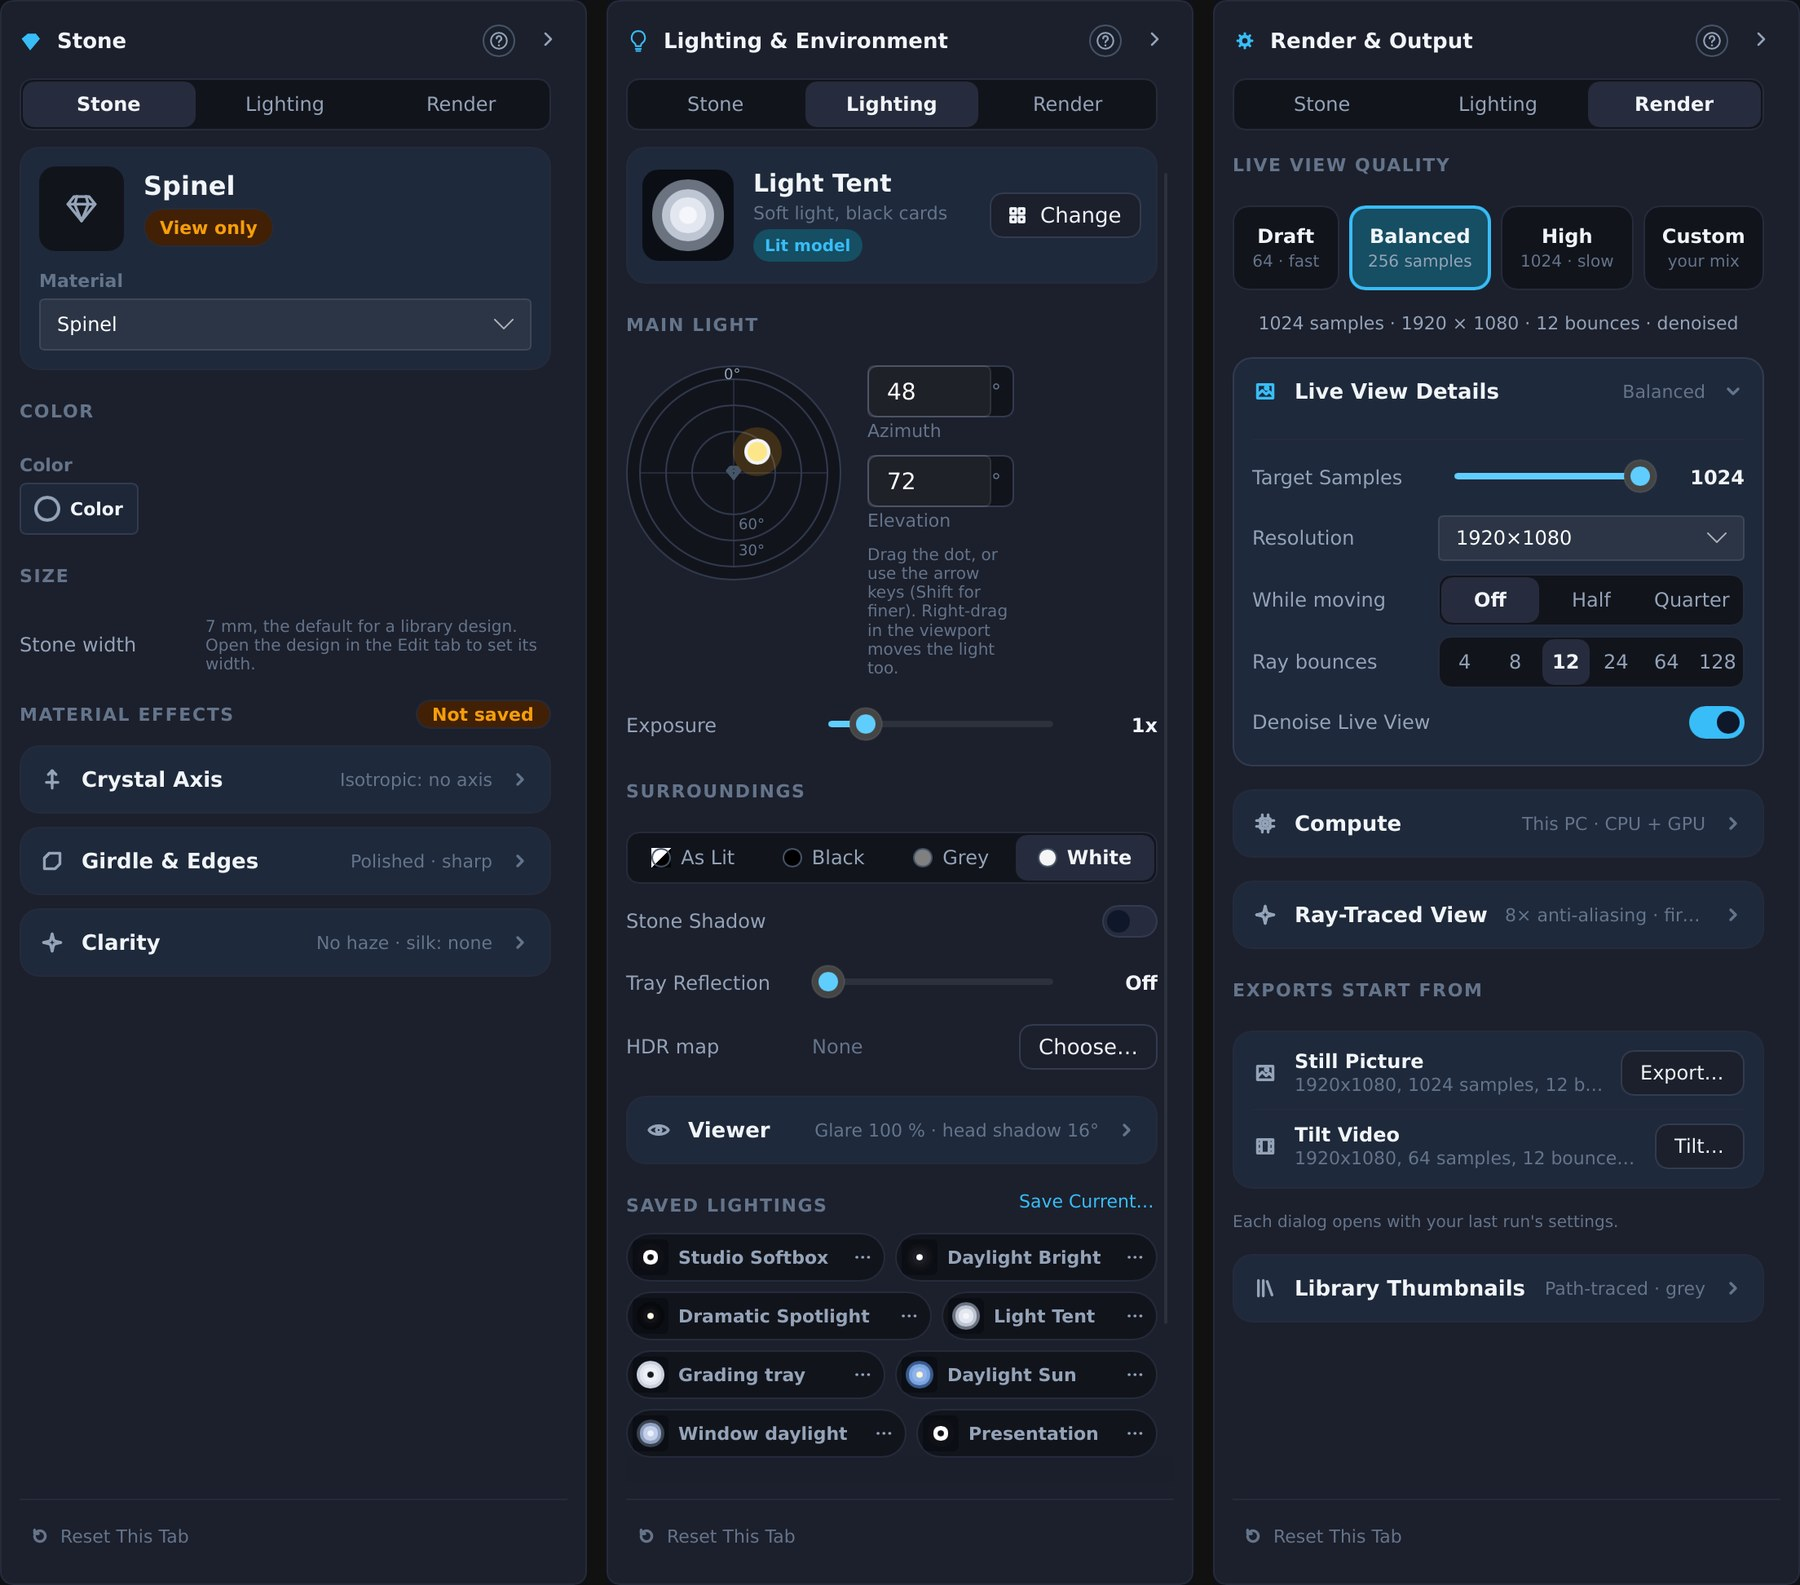
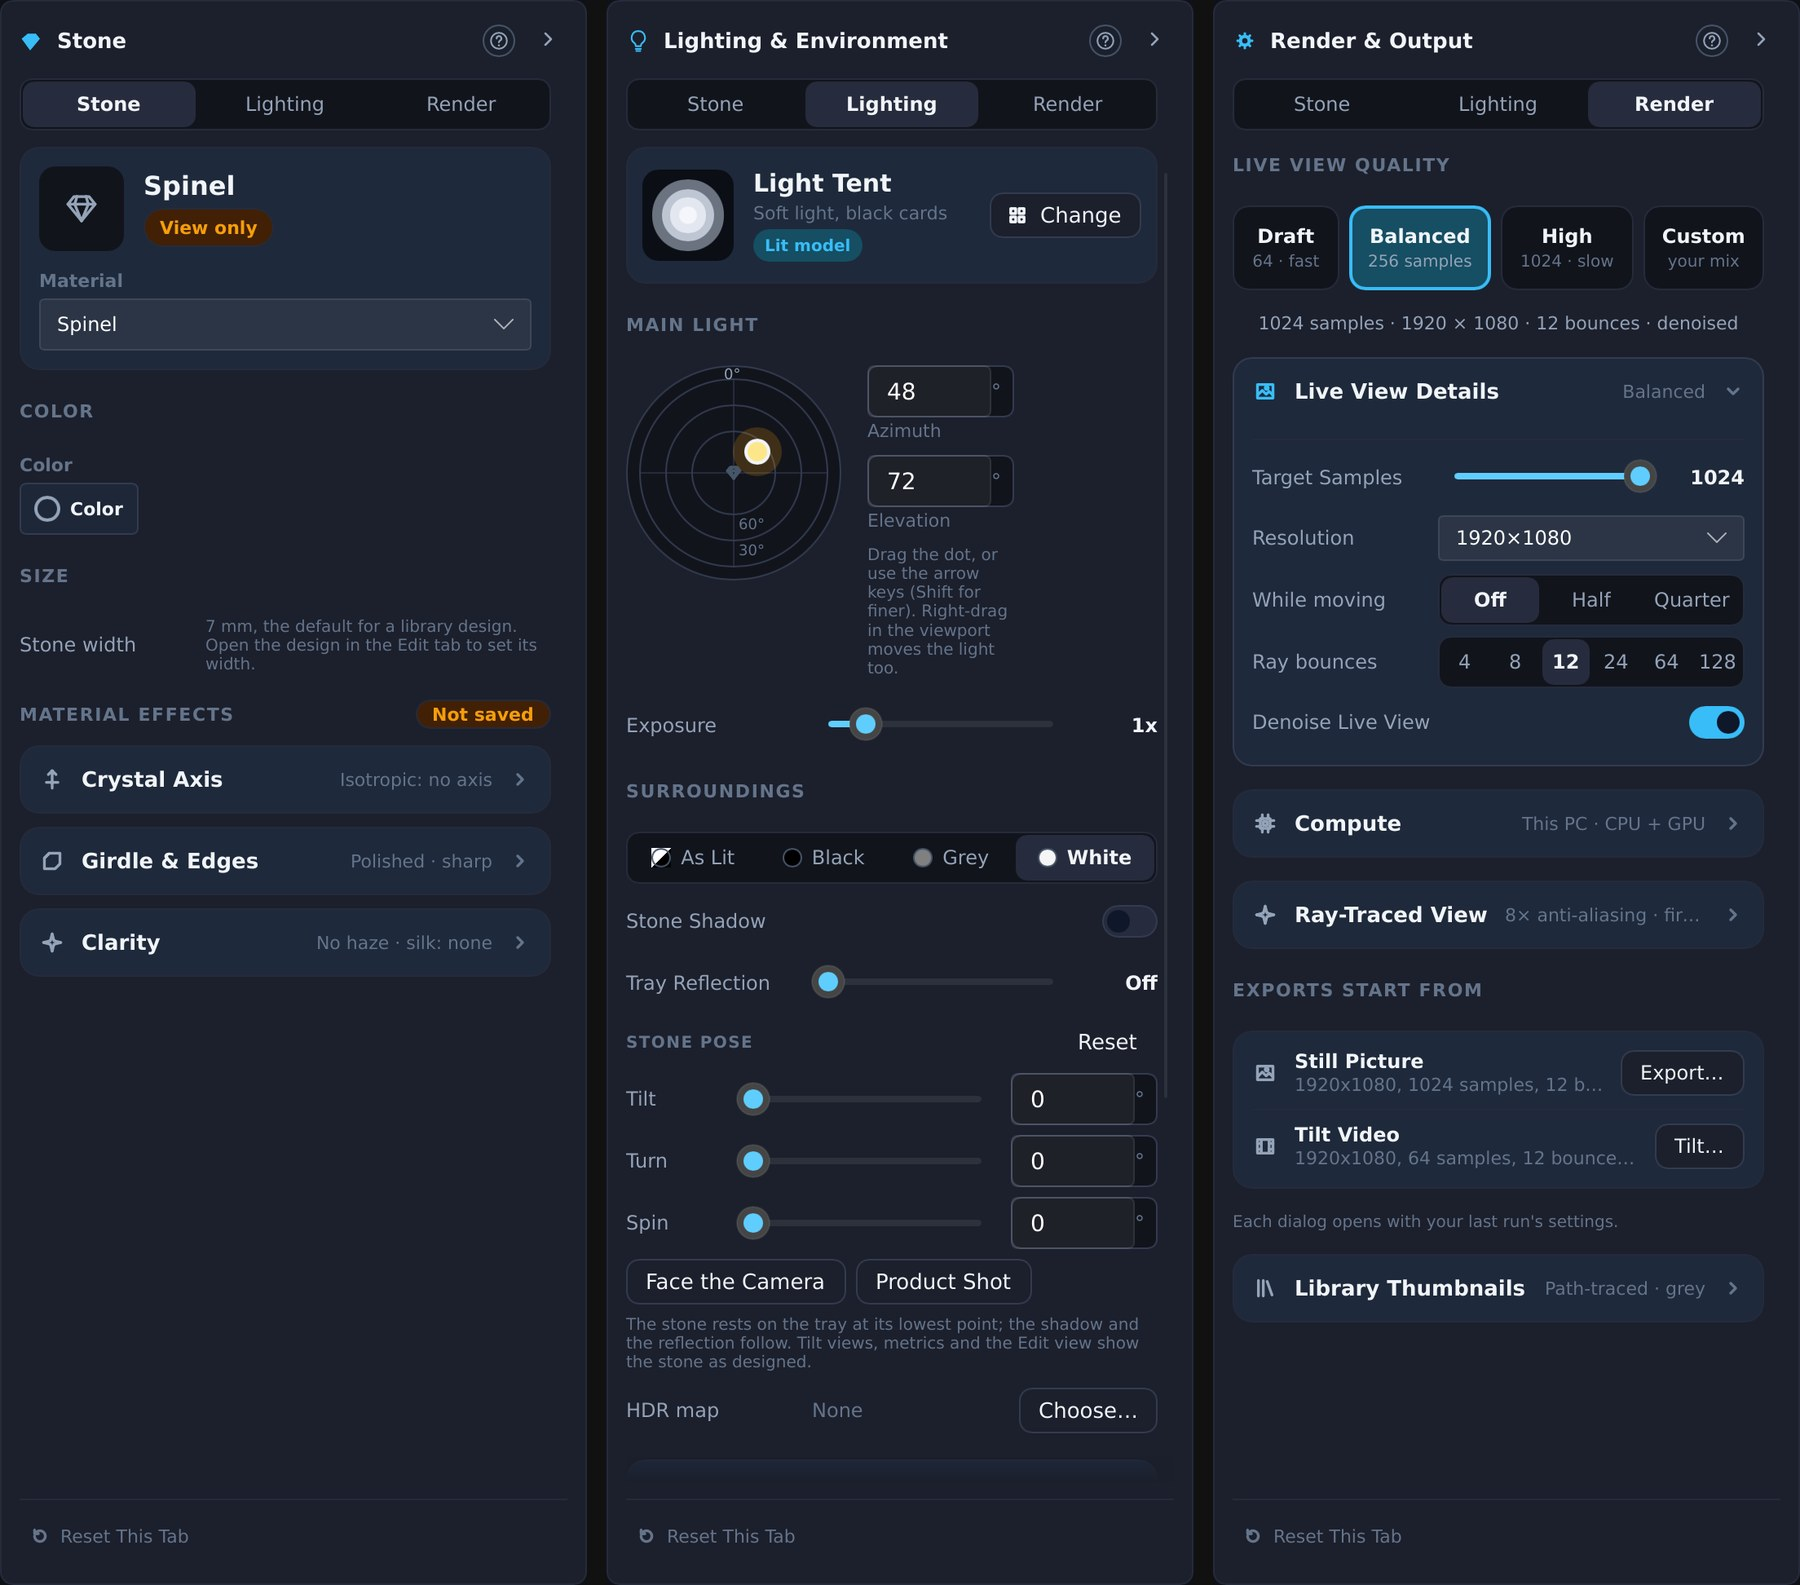
Site Update

Changed region(s): [[0.3422, 0.6492, 0.6533, 0.9274], [0.3422, 0.6492, 0.4044, 0.6801]]

diff --git a/gallery.html b/gallery.html
@@ -213,7 +213,7 @@
     <a href="assets/images/fig_settings.jpg">
       <img src="assets/images/fig_settings.jpg" width="1800" height="1585" alt="The Stone, Lighting and Render tabs of the settings panel side by side, with the four Surroundings choices and the Live View Details" loading="lazy">
     </a>
-    <figcaption>Fig. 22 — Render and optics settings: the Stone, Lighting and Render tabs side by side. The Stone tab shows a library design&#x27;s material, color and size note with the Crystal Axis, Girdle &amp; Edges and Clarity rows under Material Effects; the Lighting tab has the lighting rig, the Main Light direction and Exposure, the Surroundings choice (As Lit, Black, Grey, White), Stone Shadow, Tray Reflection, the HDR map, the Viewer row and the saved lightings; the Render tab has the Live View Quality presets, Live View Details (target samples, resolution, motion preview, bounces, denoise), the Compute and Ray-Traced View rows, and the Still Picture and Tilt Video export defaults.</figcaption>
+    <figcaption>Fig. 22 — Render and optics settings: the Stone, Lighting and Render tabs side by side. The Stone tab shows a library design&#x27;s material, color and size note with the Crystal Axis, Girdle &amp; Edges and Clarity rows under Material Effects; the Lighting tab has the lighting rig, the Main Light direction and Exposure, the Surroundings choice (As Lit, Black, Grey, White), Stone Shadow, Tray Reflection, the Stone Pose (Tilt, Turn and Spin, with Face the Camera and Product Shot) and the HDR map; the Render tab has the Live View Quality presets, Live View Details (target samples, resolution, motion preview, bounces, denoise), the Compute and Ray-Traced View rows, the Still Picture and Tilt Video export defaults and Library Thumbnails.</figcaption>
   </figure>
 
   <figure class="fig">
@@ -232,7 +232,7 @@
 
   <figure class="fig fig-portrait" style="--fig-max: 460px">
     <a href="assets/images/fig_export_dialog.png">
-      <img src="assets/images/fig_export_dialog.png" width="840" height="1918" alt="Export High-Resolution Render dialog before an export, with the Renderer row" loading="lazy">
+      <img src="assets/images/fig_export_dialog.png" width="840" height="1780" alt="Export High-Resolution Render dialog before an export, with the Renderer row" loading="lazy">
     </a>
     <figcaption>Fig. 25 — Export High-Resolution Render before an export: output folder and file name template, 4K, Rec.2020, Local Only (the remote choices are dimmed while the app checks for the remote), 12 max ray bounces, the Renderer row (Path-Traced or Ray-Traced) and 1024 samples per pixel, with Add to Queue and Start Export.</figcaption>
   </figure>
@@ -332,7 +332,7 @@
     <a href="assets/images/fig_preferences.png">
       <img src="assets/images/fig_preferences.png" width="960" height="1200" alt="The Preferences dialog" loading="lazy">
     </a>
-    <figcaption>Fig. 39 &mdash; The Preferences dialog: interface, appearance and rendering settings.</figcaption>
+    <figcaption>Fig. 39 &mdash; The Preferences dialog: interface, appearance, rendering and direct manipulation settings.</figcaption>
   </figure>
 
   <figure class="fig fig-portrait" style="--fig-max: 560px">

diff --git a/editor.html b/editor.html
@@ -2017,7 +2017,7 @@
     </p>
     <figure class="fig fig-portrait" style="--fig-max: 460px">
       <a href="assets/images/fig_export_dialog.png">
-        <img src="assets/images/fig_export_dialog.png" width="840" height="1918" alt="Export High-Resolution Render dialog before an export, with the Renderer row" loading="lazy">
+        <img src="assets/images/fig_export_dialog.png" width="840" height="1780" alt="Export High-Resolution Render dialog before an export, with the Renderer row" loading="lazy">
       </a>
       <figcaption>Fig. 32 &mdash; Export High-Resolution Render before an export: the Include Optical Diagnostics box and the material (Emerald), the output folder and file name template, 4K output size, Rec.2020, Local Only (the remote choices are dimmed while the app checks for the remote), 12 max ray bounces, the Renderer row with Path-Traced selected and Ray-Traced beside it, and 1024 samples per pixel, with Close, Add to Queue and Start Export.</figcaption>
     </figure>
@@ -2480,9 +2480,9 @@
     </figure>
     <figure class="fig fig-portrait" style="--fig-max: 480px">
       <a href="assets/images/fig_preferences.png">
-        <img src="assets/images/fig_preferences.png" width="960" height="1200" alt="The Preferences dialog: Interface, Appearance and Rendering" loading="lazy">
+        <img src="assets/images/fig_preferences.png" width="960" height="1200" alt="The Preferences dialog: Interface, Appearance, Rendering and Direct Manipulation" loading="lazy">
       </a>
-      <figcaption>Fig. 38 &mdash; The Preferences dialog: the Simple and Advanced choice, Interface Scale and High Contrast, and the start of the Rendering section, with Done at the bottom; the sections that follow, including Direct Manipulation, the Faceting Machine and Updates, are further down the scrolling dialog.</figcaption>
+      <figcaption>Fig. 38 &mdash; The Preferences dialog: the Simple and Advanced choice, Interface Scale and High Contrast, the Rendering section with Instant Lighting Changes in the Ray-Traced View, and Direct Manipulation with Larger Handles and Snap to Gear Steps When Dragging, with Done at the bottom; the Faceting Machine and Updates sections are further down the scrolling dialog.</figcaption>
     </figure>
   </section>
 
